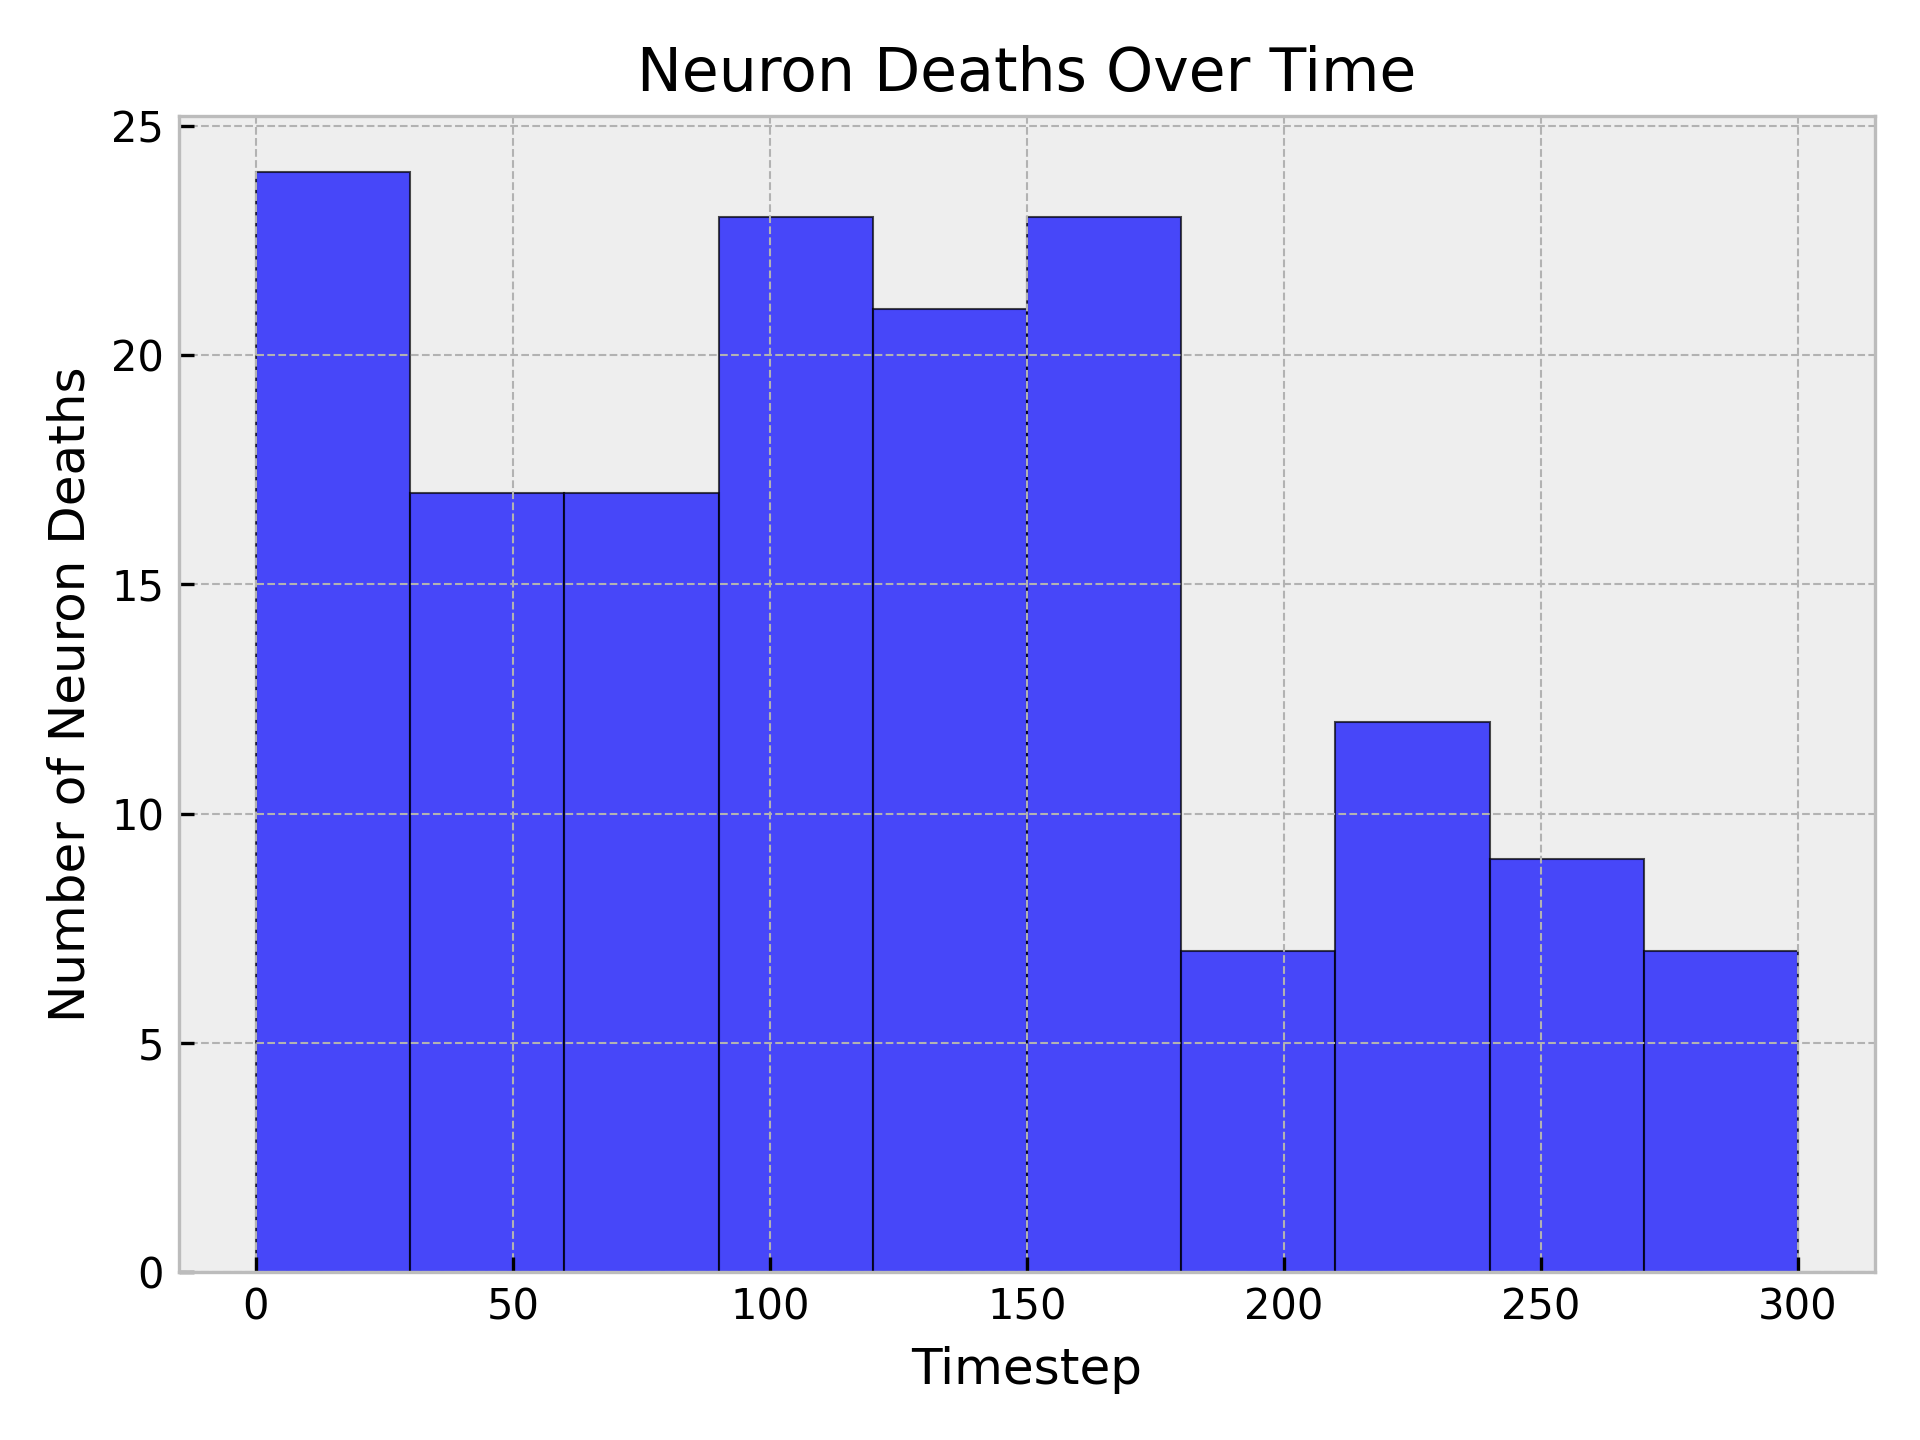
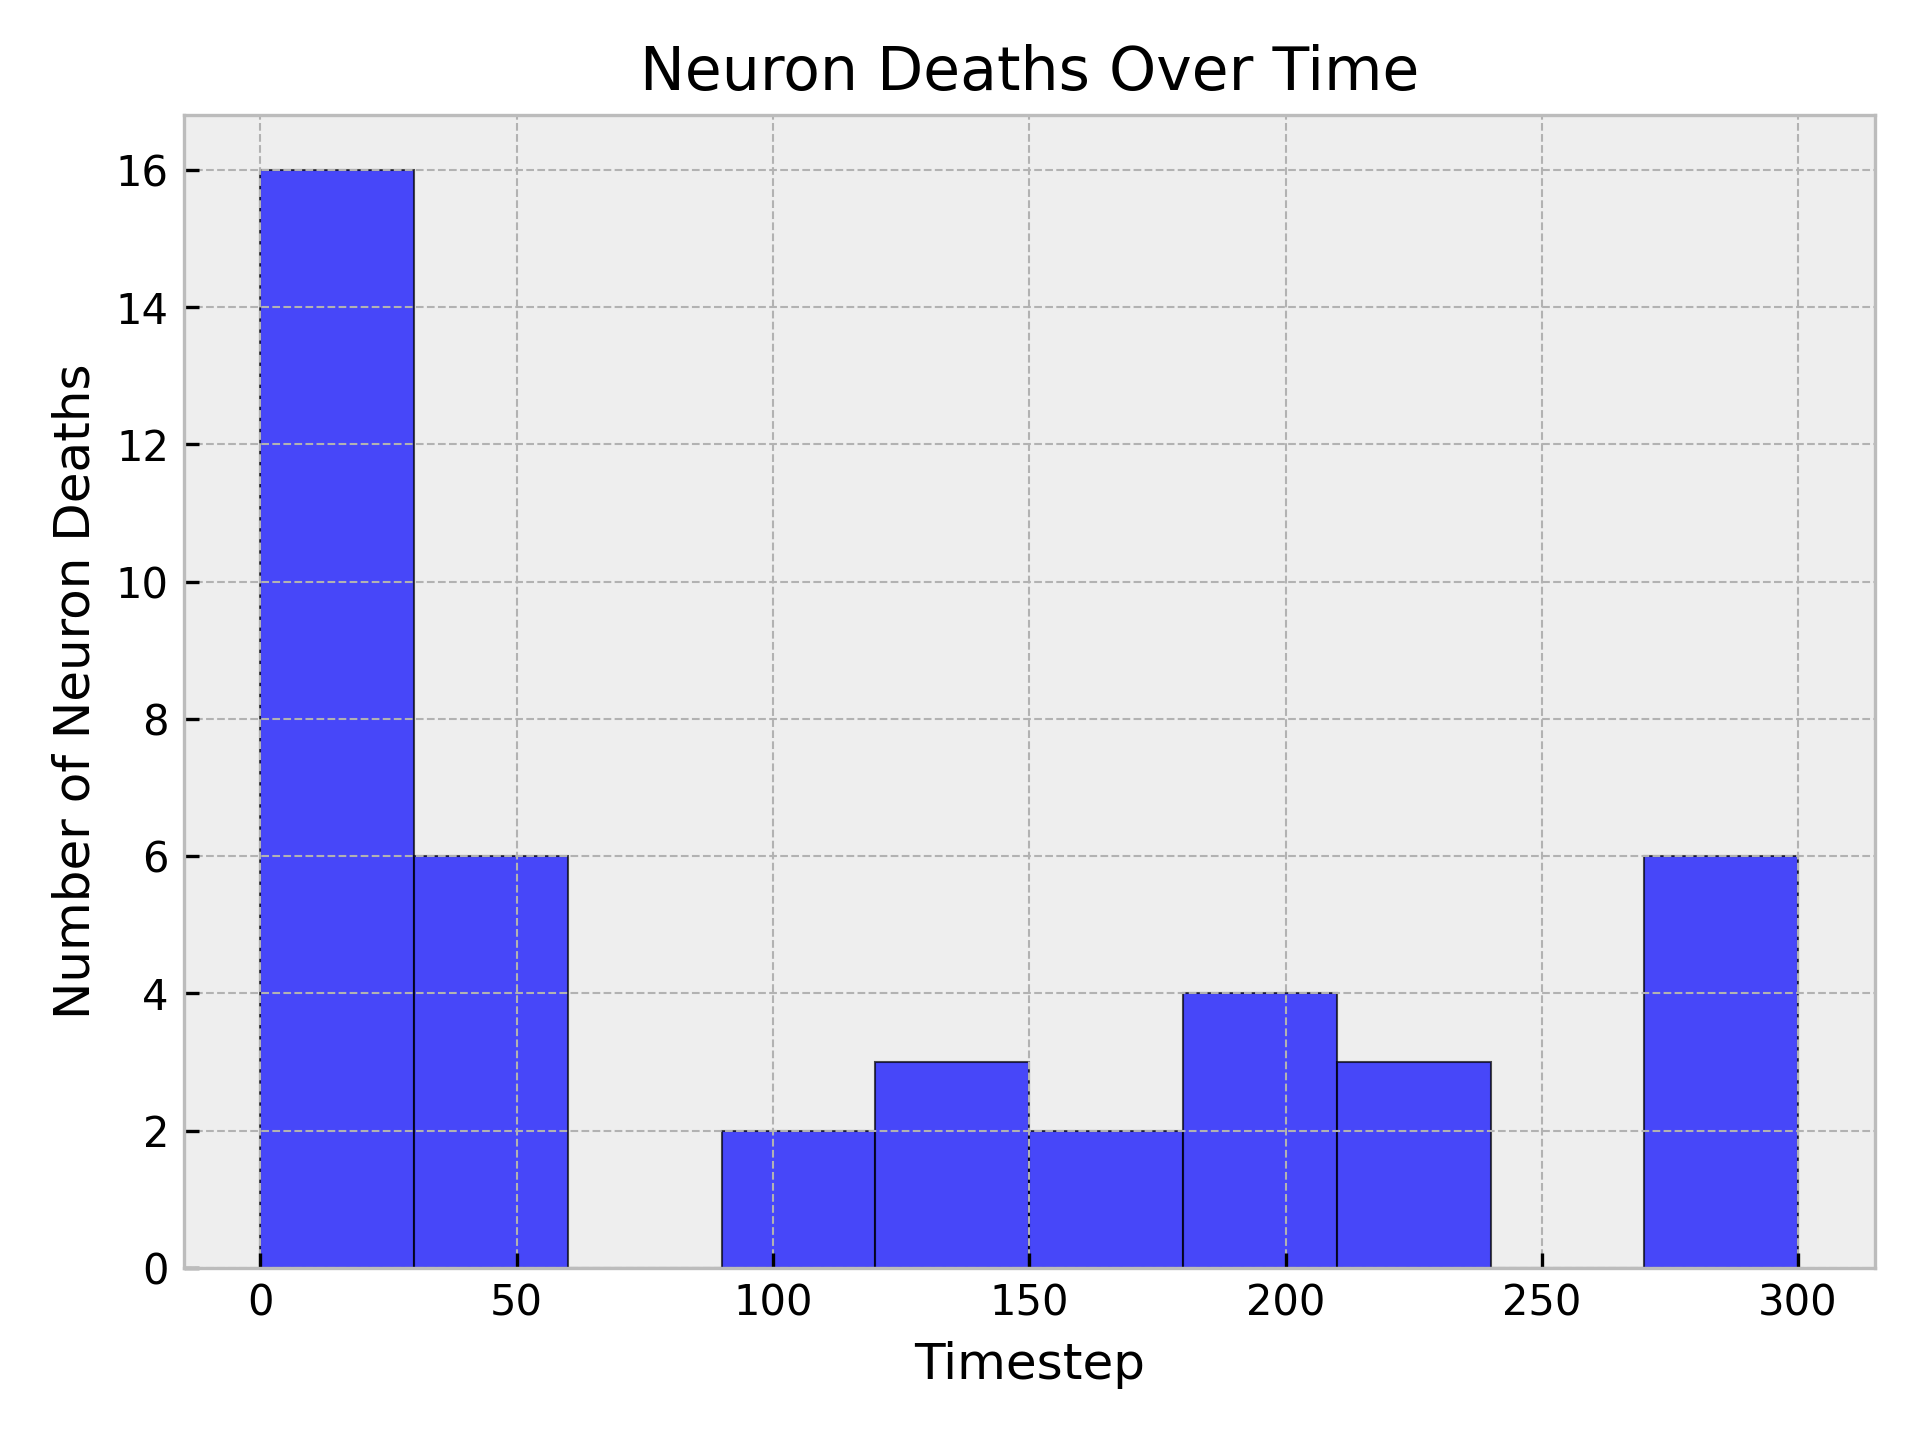
added the param search and some config changes

diff --git a/main.py b/main.py
@@ -2,6 +2,7 @@ import time
 
 import numpy as np
 from tqdm import tqdm
+from itertools import product
 
 from config import (
     GRID_SIZE,
@@ -10,6 +11,11 @@ from config import (
     SAVE_INTERVAL,
     TIME,
     TIME_SPACING,
+    k_A,
+    k_B,
+    k_c,
+    D_A,
+    D_B,
 )
 from scripts.create_gif import create_gif
 from scripts.create_plots import (
@@ -19,6 +25,7 @@ from scripts.create_plots import (
     plot_neuron_deaths_over_time,
     plot_prion_cell_death,
     plot_total_concentration,
+    plot_param_search,
 )
 from scripts.data_manipulation import delete_npy, read_all_grids, read_grids_at_timestep
 from source.cells import create_neuron_dict, neuron_secrete
@@ -30,9 +37,23 @@ from source.diffusion import (
 from source.grid import initialize_grid, initialize_value_grid
 
 
-def initialize_simulation() -> tuple:
+def initialize_simulation(
+    k_A=k_A,
+    k_B=k_B,
+    k_c=k_c,
+    D_A=D_A,
+    D_B=D_B,
+) -> tuple:
     """
     Initialize all simulation grids, neuron/protein/prion states, and diffusion equations.
+
+    Params
+    -------
+    - k_A (float): Protein decay rate.
+    - k_B (float): Prion decay rate.
+    - k_c (float): Conversion rate.
+    - D_A (float): Protein diffusion coefficient.
+    - D_B (float): Prion diffusion coefficient.
 
     Returns
     --------
@@ -59,11 +80,11 @@ def initialize_simulation() -> tuple:
         mesh,
         protein_grid,
         prion_grid,
-        k_A=0.02,
-        k_B=0.05,
-        k_c=0.01,
-        D_A=0.1,
-        D_B=0.05,
+        k_A=k_A,
+        k_B=k_B,
+        k_c=k_c,
+        D_A=D_A,
+        D_B=D_B,
     )
 
     return A, B, eqA, eqB, neuron_grid, neuron_dict, protein_grid, prion_grid
@@ -114,23 +135,29 @@ def run_simulation(
     return cell_death_counter
 
 
-def plot_simulation_results(neuron_dict, cell_death_counter) -> None:
+def plot_simulation_results(
+    neuron_dict,
+    cell_death_counter,
+    cell_death_results,
+    param_combinations,
+) -> None:
     """
     Generate and save plots, GIFs, and summary statistics from simulation results.
 
     Params
     -------
     - neuron_dict (dict): Dictionary mapping neuron positions to their states
+    - cell_death_counter (list): Number of neurons that died at each time step
+    - cell_death_results (list): List of cell death counts for each parameter combination
+    - param_combinations (list): List of parameter combinations used in the simulations
     """
     timepoints = list(range(0, TIME + 1, SAVE_INTERVAL))
 
-    # Plot concentrations and prion cell death at each timepoint
     for timepoint in tqdm(timepoints, desc="Plotting", unit=" timepoint"):
         neuron_grid, prion_grid, protein_grid = read_grids_at_timestep(timepoint)
         plot_concentrations(protein_grid, neuron_grid, prion_grid, timepoint, TIME)
         plot_prion_cell_death(prion_grid, neuron_dict, timepoint)
 
-    # Plot average concentrations over time
     for grid_name in ["protein", "prion"]:
         if grid_name == "prion":
             set_title = True
@@ -140,10 +167,8 @@ def plot_simulation_results(neuron_dict, cell_death_counter) -> None:
         plot_average_concentration(grids, grid_name, timepoints, set_title)
         plot_total_concentration(grids, grid_name, timepoints, prion=set_title)
 
-    # Clean up intermediate files
     delete_npy()
 
-    # Create GIFs from results
     create_gif(
         file_path="results",
         timepoints=timepoints,
@@ -152,24 +177,125 @@ def plot_simulation_results(neuron_dict, cell_death_counter) -> None:
         file_path="results",
         timepoints=timepoints,
         file_name="prion_cell_death",
-        delete_img=False,
     )
 
     # Plot neuron deaths summary
     plot_neuron_deaths(neuron_dict)
     plot_neuron_deaths_over_time(cell_death_counter, TIME)
 
+    plot_param_search(cell_death_results, param_combinations, TIME)
+
+
+def param_search(
+    param_amount=12,
+    step_size=0.1,
+    k_A=k_A,
+    k_B=k_B,
+    k_c=k_c,
+    D_A=D_A,
+    D_B=D_B,
+) -> tuple:
+    """
+    Perform parameter search for diffusion coefficients and decay rates.
+
+    Params
+    -------
+    - param_amount (int): Number of parameter values to test. Default is 12.
+    - step_size (float): Step size for parameter variation. Default is 0.1.
+    - k_A (float): Protein decay rate. Default is k_A.
+    - k_B (float): Prion decay rate. Default is k_B.
+    - k_c (float): Conversion rate. Default is k_c.
+    - D_A (float): Protein diffusion coefficient. Default is D_A.
+    - D_B (float): Prion diffusion coefficient. Default is D_B.
+
+    Returns
+    -------
+    - cell_death_results (list): List of cell death counts for each parameter combination.
+    - param_combinations (list): List of parameter combinations used in the simulations.
+    """
+    kA_vals = np.linspace(k_A, k_A + step_size * (param_amount - 1), param_amount)
+    kB_vals = np.linspace(k_B, k_B + step_size * (param_amount - 1), param_amount)
+    kc_vals = np.linspace(k_c, k_c + step_size * (param_amount - 1), param_amount)
+    DA_vals = np.linspace(D_A, D_A + step_size * (param_amount - 1), param_amount)
+    DB_vals = np.linspace(D_B, D_B + step_size * (param_amount - 1), param_amount)
+
+    kA_vals[-1] = 0.02
+    kB_vals[-1] = 0.05
+    kc_vals[-1] = 0.01
+    DA_vals[-1] = 0.1
+    DB_vals[-1] = 0.05
+
+    param_combinations = list(zip(kA_vals, kB_vals, kc_vals, DA_vals, DB_vals))
+    cell_death_results = [None] * len(param_combinations)
+
+    for idx, (kA, kB, kc, DA, DB) in tqdm(
+        enumerate(param_combinations),
+        total=len(param_combinations),
+        desc="Running simulations",
+        unit="simulation",
+    ):
+        (
+            A,
+            B,
+            eqA,
+            eqB,
+            neuron_grid,
+            neuron_dict,
+            protein_grid,
+            prion_grid,
+        ) = initialize_simulation(
+            k_A=kA,
+            k_B=kB,
+            k_c=kc,
+            D_A=DA,
+            D_B=DB,
+        )
+
+        cell_death_counter = run_simulation(
+            A,
+            B,
+            eqA,
+            eqB,
+            neuron_grid,
+            neuron_dict,
+            protein_grid,
+            prion_grid,
+        )
+
+        cell_death_results[idx] = cell_death_counter
+
+    return cell_death_results, param_combinations
+
 
 def main():
     start_time = time.time()
+    cell_death_results, param_combinations = param_search(
+        param_amount=12,
+        step_size=0.5,
+        k_A=k_A,
+        k_B=k_B,
+        k_c=k_c,
+        D_A=D_A,
+        D_B=D_B,
+    )
+
     A, B, eqA, eqB, neuron_grid, neuron_dict, protein_grid, prion_grid = (
         initialize_simulation()
     )
 
     cell_death_counter = run_simulation(
-        A, B, eqA, eqB, neuron_grid, neuron_dict, protein_grid, prion_grid
+        A,
+        B,
+        eqA,
+        eqB,
+        neuron_grid,
+        neuron_dict,
+        protein_grid,
+        prion_grid,
     )
-    plot_simulation_results(neuron_dict, cell_death_counter)
+    plot_simulation_results(
+        neuron_dict, cell_death_counter, cell_death_results, param_combinations
+    )
     end_time = time.time()
 
     print(f"Simulation completed in {end_time - start_time:.2f} seconds.")

diff --git a/scripts/create_plots.py b/scripts/create_plots.py
@@ -1,5 +1,7 @@
 import matplotlib.pyplot as plt
 import numpy as np
+import os
+import math
 
 from config import *
 
@@ -162,7 +164,9 @@ def plot_neuron_deaths(neuron_dict) -> None:
 
     handles, labels = plt.gca().get_legend_handles_labels()
     by_label = dict(zip(labels, handles))
-    plt.legend(by_label.values(), by_label.keys(), title="Death Cause")
+    plt.legend(
+        by_label.values(), by_label.keys(), title="Death Cause", loc="upper left"
+    )
     plt.xlabel("X")
     plt.ylabel("Y")
     plt.title("Neuron Locations and Cause of Death")
@@ -237,4 +241,54 @@ def plot_neuron_deaths_over_time(cell_death_counter, time) -> None:
 
     plt.tight_layout()
     plt.savefig("results/neuron_deaths_over_time.png", dpi=FIG_DPI)
+    plt.close()
+
+
+def plot_param_search(
+    cell_death_results: list, param_combinations: list, time: int
+) -> None:
+    """
+    Plot histograms of neuron deaths for each simulation.
+
+    Params
+    -------
+    - cell_death_results (list): List of neuron deaths for each parameter combination.
+    - param_combinations (list): List of parameter combinations.
+    - time (int): Total simulation time.
+
+    Returns
+    -------
+    - A grid of histogram plots saved to 'results/param_search.png'.
+    """
+    timepoints = np.arange(0, time + 1)
+
+    death_array = np.array(cell_death_results)
+    param_array = np.array(param_combinations)
+
+    num_sims = len(death_array)
+    cols = 4
+    rows = math.ceil(num_sims / cols)
+
+    fig, axes = plt.subplots(rows, cols, figsize=(5 * cols, 4 * rows))
+    axes = axes.flatten()
+
+    for i in range(num_sims):
+        axes[i].hist(
+            timepoints,
+            bins=10,
+            weights=death_array[i],
+            color="blue",
+            alpha=0.7,
+            edgecolor="black",
+        )
+        axes[i].set_ylim(0, 50)
+        axes[i].set_title(f"Params: {param_array[i]}")
+        axes[i].set_ylabel("Amount of Neurons killed")
+        axes[i].set_xlabel("Timestep")
+
+    for j in range(num_sims, len(axes)):
+        fig.delaxes(axes[j])
+
+    plt.tight_layout()
+    plt.savefig("results/param_search.png", dpi=FIG_DPI)
     plt.close()

diff --git a/config.py b/config.py
@@ -38,6 +38,6 @@ FIG_DPI = 300  # Figure resolution
 
 # Biological parameters
 SECRETED_VALUE = 0.4  # Protein secreted per neuron per day (μm/μg)
-PRION_THRESHOLD = 0.001  # Prion threshold for neuron death (μg/μg neuron)
+PRION_THRESHOLD = 0.005  # Prion threshold for neuron death (μg/μg neuron)
 PRION_GROWTH_THRESHOLD = 0.1  # Prion growth rate (μg/μg/day)
 NUMBER_OF_NEURONS = 500  # Total number of neurons in the simulation
